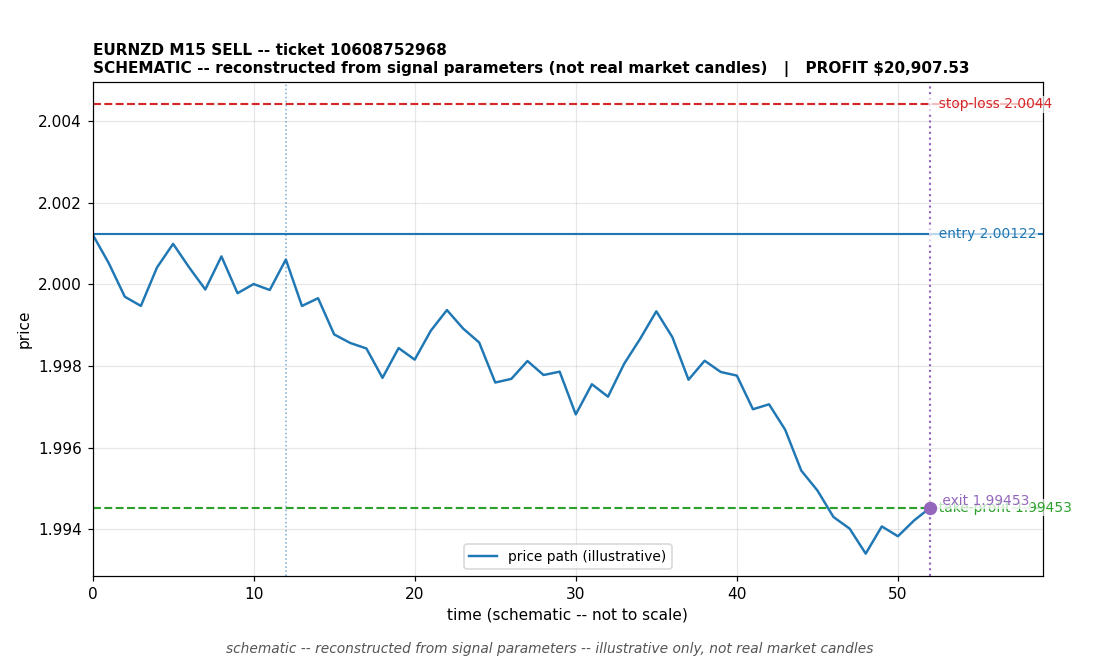
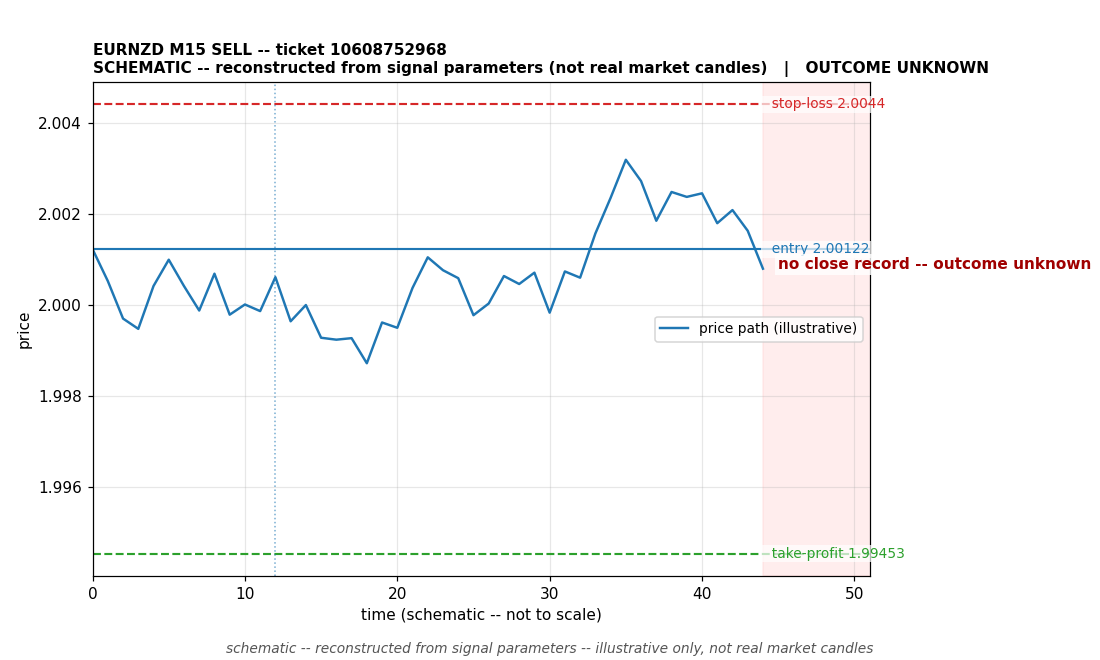
docs: revert unconfirmed closes to outcome-unknown (2026-09-22 correction)
Corrects commit c8ec428b, which presented six unconfirmed closes as exact broker outcomes (provisional total +$71,291.89). The supporting close records were not backed by authoritative MT5 broker history and have been withdrawn; the six trades (XAUEUR, GBPJPY, XAGUSD, EURNZD, NZDSGD, USDTHB) revert to OUTCOME UNKNOWN, under reconciliation. Provisional realized P&L: +$9,350.51 -- XAGEUR +$10,845.73 (broker-confirmed), GBPAUD -$1,495.22 (provisional estimate). No profit claimed for unresolved trades; schematic charts unchanged.

diff --git a/trades/index.md b/trades/index.md
@@ -1,8 +1,10 @@
 # Trade documentation -- 30-day autonomous demo experiment
 
+> **Correction (2026-09-22):** commit `c8ec428b` published on this date presented six unconfirmed closes as exact outcomes (provisional total +$71,291.89). Those closes were not backed by authoritative MT5 broker history, so they are reverted here to **outcome unknown**. Provisional realized P&L: **+$9,350.51** -- XAGEUR +$10,845.73 (broker-confirmed), GBPAUD -$1,495.22 (provisional estimate), six trades awaiting authoritative reconciliation.
+
 Per-trade pages with schematic charts and grounded profit/loss explanations. Every closed trade is documented, winners and losers. Trades whose close was never recorded are marked **outcome unknown -- under reconciliation**; no profit is claimed for them.
 
-**Realized P&L so far: $71,291.89** (8 closed trades, 0 still open) -- _provisional: one close is an estimate excluding commission/swap._
+**Realized P&L so far: $9,350.51** (2 closed trades, 0 still open) -- _provisional: 6 opened trades have no close records yet; one close is an estimate excluding commission/swap._
 
 ## 2026-09-21
 
@@ -14,13 +16,13 @@ Per-trade pages with schematic charts and grounded profit/loss explanations. Eve
 
 | Ticket | Trade | Entry (server) | Exit (server) | P&L | Exit reason | Status |
 |---|---|---|---|---|---|---|
-| [10606155417](2026-09-22/10606155417.md) | XAUEUR BUY | 2026.09.22 02:15:01 | not recorded | $0.00 | breakeven_stop_provisional | breakeven |
+| [10606155417](2026-09-22/10606155417.md) | XAUEUR BUY | 2026.09.22 02:15:01 | not recorded | unknown | not recorded | unknown |
 | [10606266371](2026-09-22/10606266371.md) | XAGEUR BUY | 2026.09.22 02:33:42 | 2026.09.22 02:58:01 | $10,845.73 | take-profit close (broker-confirmed) | profit |
-| [10607517845](2026-09-22/10607517845.md) | GBPJPY BUY | 2026.09.22 04:45:05 | 2026-09-22 06:40:42 | $20,188.02 | take_profit | profit |
-| [10608752852](2026-09-22/10608752852.md) | XAGUSD SELL | 2026.09.22 06:45:03 | 2026-09-22 08:30:40 | $20,845.83 | take_profit | profit |
-| [10608752968](2026-09-22/10608752968.md) | EURNZD SELL | 2026.09.22 06:45:03 | 2026-09-22 11:53:30 | $20,907.53 | take_profit | profit |
-| [10608752999](2026-09-22/10608752999.md) | NZDSGD BUY | 2026.09.22 06:45:03 | 2026-09-22 10:59:30 | $0.00 | breakeven_stop | breakeven |
-| [10611130854](2026-09-22/10611130854.md) | USDTHB BUY | 2026.09.22 09:30:04 | 2026-09-22 11:41:28 | $0.00 | breakeven_stop | breakeven |
+| [10607517845](2026-09-22/10607517845.md) | GBPJPY BUY | 2026.09.22 04:45:05 | not recorded | unknown | not recorded | unknown |
+| [10608752852](2026-09-22/10608752852.md) | XAGUSD SELL | 2026.09.22 06:45:03 | not recorded | unknown | not recorded | unknown |
+| [10608752968](2026-09-22/10608752968.md) | EURNZD SELL | 2026.09.22 06:45:03 | not recorded | unknown | not recorded | unknown |
+| [10608752999](2026-09-22/10608752999.md) | NZDSGD BUY | 2026.09.22 06:45:03 | not recorded | unknown | not recorded | unknown |
+| [10611130854](2026-09-22/10611130854.md) | USDTHB BUY | 2026.09.22 09:30:04 | not recorded | unknown | not recorded | unknown |
 
 ## Open positions (latest snapshot)
 

diff --git a/trades/2026-09-22/10607517845.md b/trades/2026-09-22/10607517845.md
@@ -1,6 +1,6 @@
 # GBPJPY BUY -- ticket 10607517845
 
-**Status:** CLOSED -- PROFIT
+**Status:** OUTCOME UNKNOWN -- under reconciliation
 **Date:** 2026-09-22 (MT5 server time (UTC+3))
 
 ## Trade facts
@@ -9,16 +9,16 @@
 - Direction: BUY
 - Timeframe: M15
 - Entry time: 2026.09.22 04:45:05 (MT5 server time (UTC+3))
-- Exit time: 2026-09-22 06:40:42
+- Exit time: not recorded
 - Entry price: 210.48
-- Exit price: 210.712
+- Exit price: not recorded
 - Stop-loss: 210.363
 - Take-profit: 210.712
 - Volume: 136.84 lots
-- P&L: $20,188.02
+- P&L: not recorded
 - Floating P&L: not recorded
 - Commission / swap: not recorded
-- Exit reason: take_profit
+- Exit reason: not recorded
 - Market session at entry: Asian (Sydney/Tokyo) / Tokyo
 
 ## Signal rationale
@@ -29,10 +29,10 @@ strategy `ema_rsi`: EMA20 crossed above EMA50, RSI=54.7 (RSI=54.7, EMA20=210.418
 
 decision: `commanded`; volume: 136.84; planned risk: $10,078.40; time: 2026-09-21 18:45:04
 
-## Why profit
+## Why this is unresolved
 
-- Profit of $20,188.02; close reason recorded as 'take_profit'. The precise cause of this outcome is unclear from the recorded fields.
-- Commission/swap: not recorded.
+- Outcome unknown -- no clean close record exists for this ticket. The position is absent from the latest broker open-positions snapshot without a recorded close event. It is under reconciliation; no profit or loss is claimed.
+- This ticket was already flagged as a known reconciliation gap on 2026-09-22.
 
 ## Chart
 
@@ -42,7 +42,9 @@ _Chart is schematic -- reconstructed from the signal's entry/SL/TP/exit paramete
 
 ## Data gaps / notes
 
-- Broker-confirmed close: deal #<redacted> sell 136.84 GBPJPY @ 210.712 (order #<redacted>). Exit exactly at TP 210.712. Computed P&L from broker tick specs. | backfilled 2026-09-22 from reconciled DB
+- CORRECTION (2026-09-22): commit `c8ec428b` presented this trade as closed with an exact outcome; that claim was not supported by authoritative MT5 broker history and is withdrawn. Outcome reverts to unknown -- under reconciliation.
+
+- No close event recorded -- outcome unknown, under reconciliation.
 
 ---
 _Generated by trade_report.py for the 30-day autonomous demo trading experiment. Demo account, no real money._

diff --git a/trades/2026-09-22/10608752999.md b/trades/2026-09-22/10608752999.md
@@ -1,6 +1,6 @@
 # NZDSGD BUY -- ticket 10608752999
 
-**Status:** CLOSED -- BREAKEVEN
+**Status:** OUTCOME UNKNOWN -- under reconciliation
 **Date:** 2026-09-22 (MT5 server time (UTC+3))
 
 ## Trade facts
@@ -9,16 +9,16 @@
 - Direction: BUY
 - Timeframe: M15
 - Entry time: 2026.09.22 06:45:03 (MT5 server time (UTC+3))
-- Exit time: 2026-09-22 10:59:30
+- Exit time: not recorded
 - Entry price: 0.73129
-- Exit price: 0.73129
+- Exit price: not recorded
 - Stop-loss: 0.73001
 - Take-profit: 0.73379
 - Volume: 100 lots
-- P&L: $0.00
+- P&L: not recorded
 - Floating P&L: not recorded
 - Commission / swap: not recorded
-- Exit reason: breakeven_stop
+- Exit reason: not recorded
 - Market session at entry: Asian (Sydney/Tokyo) / Tokyo
 
 ## Signal rationale
@@ -29,10 +29,9 @@ strategy `ema_rsi`: EMA20 crossed above EMA50, RSI=68.3 (RSI=68.3, EMA20=0.72939
 
 decision: `commanded`; volume: 100.0; planned risk: $10,277.71; time: 2026-09-22 03:45:02
 
-## Why breakeven
+## Why this is unresolved
 
-- Profit of $0.00; close reason recorded as 'breakeven_stop'. The precise cause of this outcome is unclear from the recorded fields.
-- Commission/swap: not recorded.
+- Outcome unknown -- no clean close record exists for this ticket. The position is absent from the latest broker open-positions snapshot without a recorded close event. It is under reconciliation; no profit or loss is claimed.
 
 ## Chart
 
@@ -42,7 +41,9 @@ _Chart is schematic -- reconstructed from the signal's entry/SL/TP/exit paramete
 
 ## Data gaps / notes
 
-- Broker-confirmed close: deal #<redacted> sell 100 NZDSGD @ 0.73129 (order #<redacted>). EA breakeven-lock moved SL to entry 0.73129 at 05:57:02 after +1R; price reversed and stopped at breakeven. P&L $0.00. | backfilled 2026-09-22 from reconciled DB
+- CORRECTION (2026-09-22): commit `c8ec428b` presented this trade as closed with an exact outcome; that claim was not supported by authoritative MT5 broker history and is withdrawn. Outcome reverts to unknown -- under reconciliation.
+
+- No close event recorded -- outcome unknown, under reconciliation.
 
 ---
 _Generated by trade_report.py for the 30-day autonomous demo trading experiment. Demo account, no real money._

diff --git a/trades/2026-09-22/10608752968.md b/trades/2026-09-22/10608752968.md
@@ -1,6 +1,6 @@
 # EURNZD SELL -- ticket 10608752968
 
-**Status:** CLOSED -- PROFIT
+**Status:** OUTCOME UNKNOWN -- under reconciliation
 **Date:** 2026-09-22 (MT5 server time (UTC+3))
 
 ## Trade facts
@@ -9,16 +9,16 @@
 - Direction: SELL
 - Timeframe: M15
 - Entry time: 2026.09.22 06:45:03 (MT5 server time (UTC+3))
-- Exit time: 2026-09-22 11:53:30
+- Exit time: not recorded
 - Entry price: 2.00122
-- Exit price: 1.99453
+- Exit price: not recorded
 - Stop-loss: 2.0044
 - Take-profit: 1.99453
 - Volume: 54.48 lots
-- P&L: $20,907.53
+- P&L: not recorded
 - Floating P&L: not recorded
 - Commission / swap: not recorded
-- Exit reason: take_profit
+- Exit reason: not recorded
 - Market session at entry: Asian (Sydney/Tokyo) / Tokyo
 
 ## Signal rationale
@@ -29,10 +29,9 @@ strategy `ema_rsi`: EMA20 crossed below EMA50, RSI=30.2 (RSI=30.2, EMA20=2.00603
 
 decision: `commanded`; volume: 54.48; planned risk: $10,277.71; time: 2026-09-22 03:45:02
 
-## Why profit
+## Why this is unresolved
 
-- Profit of $20,907.53; close reason recorded as 'take_profit'. The precise cause of this outcome is unclear from the recorded fields.
-- Commission/swap: not recorded.
+- Outcome unknown -- no clean close record exists for this ticket. The position is absent from the latest broker open-positions snapshot without a recorded close event. It is under reconciliation; no profit or loss is claimed.
 
 ## Chart
 
@@ -42,7 +41,9 @@ _Chart is schematic -- reconstructed from the signal's entry/SL/TP/exit paramete
 
 ## Data gaps / notes
 
-- Broker-confirmed close: deal #<redacted> buy 54.48 EURNZD @ 1.99453 (order #<redacted>). Exit exactly at TP 1.99453. Computed P&L $20,907.53 matches last observed floating +$20,981.85 within 0.4%. | backfilled 2026-09-22 from reconciled DB
+- CORRECTION (2026-09-22): commit `c8ec428b` presented this trade as closed with an exact outcome; that claim was not supported by authoritative MT5 broker history and is withdrawn. Outcome reverts to unknown -- under reconciliation.
+
+- No close event recorded -- outcome unknown, under reconciliation.
 
 ---
 _Generated by trade_report.py for the 30-day autonomous demo trading experiment. Demo account, no real money._

diff --git a/trades/2026-09-22/10606155417.md b/trades/2026-09-22/10606155417.md
@@ -1,6 +1,6 @@
 # XAUEUR BUY -- ticket 10606155417
 
-**Status:** CLOSED -- BREAKEVEN
+**Status:** OUTCOME UNKNOWN -- under reconciliation
 **Date:** 2026-09-22 (MT5 server time (UTC+3))
 
 ## Trade facts
@@ -15,10 +15,10 @@
 - Stop-loss: 3796
 - Take-profit: 3817
 - Volume: 1 lots
-- P&L: $0.00
+- P&L: not recorded
 - Floating P&L: not recorded
 - Commission / swap: not recorded
-- Exit reason: breakeven_stop_provisional
+- Exit reason: not recorded
 - Market session at entry: Asian (Sydney/Tokyo)
 
 ## Signal rationale
@@ -29,10 +29,10 @@ strategy `ema_rsi`: EMA20 crossed above EMA50, RSI=64.6 (RSI=64.6, EMA20=3793.8,
 
 decision: `commanded`; volume: 1.0; planned risk: $9,973.79; time: 2026-09-21 16:15:01
 
-## Why breakeven
+## Why this is unresolved
 
-- Profit of $0.00; close reason recorded as 'breakeven_stop_provisional'. The precise cause of this outcome is unclear from the recorded fields.
-- Commission/swap: not recorded.
+- Outcome unknown -- no clean close record exists for this ticket. The position is absent from the latest broker open-positions snapshot without a recorded close event. It is under reconciliation; no profit or loss is claimed.
+- This ticket was already flagged as a known reconciliation gap on 2026-09-22.
 
 ## Chart
 
@@ -42,7 +42,9 @@ _Chart is schematic -- reconstructed from the signal's entry/SL/TP/exit paramete
 
 ## Data gaps / notes
 
-- Position closed (zero open positions confirmed) but no close deal in terminal logs or EA journal — closed during terminal outage. SL was breakeven-locked at entry 3803.62 on 09-21; later price printed 3787.93 below the SL with no TP deal in any log. Almost certainly stopped at breakeven ~$0.00. NOT broker-confirmed; provisional. | backfilled 2026-09-22 from reconciled DB
+- CORRECTION (2026-09-22): commit `c8ec428b` presented this trade as closed with an exact outcome; that claim was not supported by authoritative MT5 broker history and is withdrawn. Outcome reverts to unknown -- under reconciliation.
+
+- No close event recorded -- outcome unknown, under reconciliation.
 
 ---
 _Generated by trade_report.py for the 30-day autonomous demo trading experiment. Demo account, no real money._

diff --git a/trades/2026-09-22/10608752852.md b/trades/2026-09-22/10608752852.md
@@ -1,6 +1,6 @@
 # XAGUSD SELL -- ticket 10608752852
 
-**Status:** CLOSED -- PROFIT
+**Status:** OUTCOME UNKNOWN -- under reconciliation
 **Date:** 2026-09-22 (MT5 server time (UTC+3))
 
 ## Trade facts
@@ -9,16 +9,16 @@
 - Direction: SELL
 - Timeframe: M15
 - Entry time: 2026.09.22 06:45:03 (MT5 server time (UTC+3))
-- Exit time: 2026-09-22 08:30:40
+- Exit time: not recorded
 - Entry price: 66.015
-- Exit price: 65.378
+- Exit price: not recorded
 - Stop-loss: 66.319
 - Take-profit: 65.378
 - Volume: 65.45 lots
-- P&L: $20,845.83
+- P&L: not recorded
 - Floating P&L: not recorded
 - Commission / swap: not recorded
-- Exit reason: take_profit
+- Exit reason: not recorded
 - Market session at entry: Asian (Sydney/Tokyo) / Tokyo
 
 ## Signal rationale
@@ -29,10 +29,9 @@ strategy `ema_rsi`: EMA20 crossed below EMA50, RSI=39.6 (RSI=39.6, EMA20=66.221,
 
 decision: `commanded`; volume: 65.46; planned risk: $10,277.71; time: 2026-09-22 03:45:02
 
-## Why profit
+## Why this is unresolved
 
-- Profit of $20,845.83; close reason recorded as 'take_profit'. The precise cause of this outcome is unclear from the recorded fields.
-- Commission/swap: not recorded.
+- Outcome unknown -- no clean close record exists for this ticket. The position is absent from the latest broker open-positions snapshot without a recorded close event. It is under reconciliation; no profit or loss is claimed.
 
 ## Chart
 
@@ -42,7 +41,9 @@ _Chart is schematic -- reconstructed from the signal's entry/SL/TP/exit paramete
 
 ## Data gaps / notes
 
-- Broker-confirmed close: deal #<redacted> buy 65.45 XAGUSD @ 65.378 (order #<redacted>). Exit exactly at TP 65.378. Computed P&L from broker tick specs. | backfilled 2026-09-22 from reconciled DB
+- CORRECTION (2026-09-22): commit `c8ec428b` presented this trade as closed with an exact outcome; that claim was not supported by authoritative MT5 broker history and is withdrawn. Outcome reverts to unknown -- under reconciliation.
+
+- No close event recorded -- outcome unknown, under reconciliation.
 
 ---
 _Generated by trade_report.py for the 30-day autonomous demo trading experiment. Demo account, no real money._

diff --git a/trades/2026-09-22/10611130854.md b/trades/2026-09-22/10611130854.md
@@ -1,6 +1,6 @@
 # USDTHB BUY -- ticket 10611130854
 
-**Status:** CLOSED -- BREAKEVEN
+**Status:** OUTCOME UNKNOWN -- under reconciliation
 **Date:** 2026-09-22 (MT5 server time (UTC+3))
 
 ## Trade facts
@@ -9,16 +9,16 @@
 - Direction: BUY
 - Timeframe: M15
 - Entry time: 2026.09.22 09:30:04 (MT5 server time (UTC+3))
-- Exit time: 2026-09-22 11:41:28
+- Exit time: not recorded
 - Entry price: 33.262
-- Exit price: 33.262
+- Exit price: not recorded
 - Stop-loss: 33.2324
 - Take-profit: 33.3063
 - Volume: 170.01 lots
-- P&L: $0.00
+- P&L: not recorded
 - Floating P&L: not recorded
 - Commission / swap: not recorded
-- Exit reason: breakeven_stop
+- Exit reason: not recorded
 - Market session at entry: Tokyo
 
 ## Signal rationale
@@ -29,10 +29,9 @@ strategy `ema_rsi`: EMA20 crossed above EMA50, RSI=55.8 (RSI=55.8, EMA20=33.2449
 
 decision: `commanded`; volume: 170.01; planned risk: $12,573.09; time: 2026-09-22 06:30:03
 
-## Why breakeven
+## Why this is unresolved
 
-- Profit of $0.00; close reason recorded as 'breakeven_stop'. The precise cause of this outcome is unclear from the recorded fields.
-- Commission/swap: not recorded.
+- No close recorded yet -- this trade opened after the latest positions snapshot, so its current open/closed status is unconfirmed. Nothing is claimed about its outcome.
 
 ## Chart
 
@@ -42,7 +41,9 @@ _Chart is schematic -- reconstructed from the signal's entry/SL/TP/exit paramete
 
 ## Data gaps / notes
 
-- Broker-confirmed close: deal #<redacted> sell 170.01 USDTHB @ 33.2620 (order #<redacted>). EA breakeven-lock moved SL to entry 33.2620 at 08:05:06 after +1R; price reversed and stopped at breakeven. P&L $0.00. | backfilled 2026-09-22 from reconciled DB
+- CORRECTION (2026-09-22): commit `c8ec428b` presented this trade as closed with an exact outcome; that claim was not supported by authoritative MT5 broker history and is withdrawn. Outcome reverts to unknown -- under reconciliation.
+
+- No close event recorded -- outcome unknown, under reconciliation.
 
 ---
 _Generated by trade_report.py for the 30-day autonomous demo trading experiment. Demo account, no real money._
